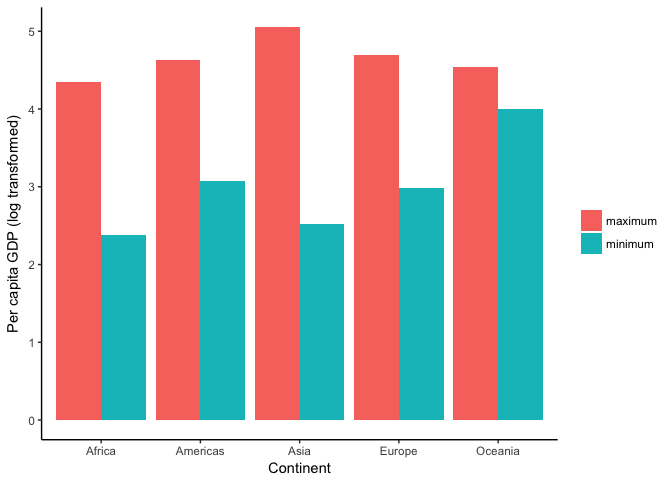
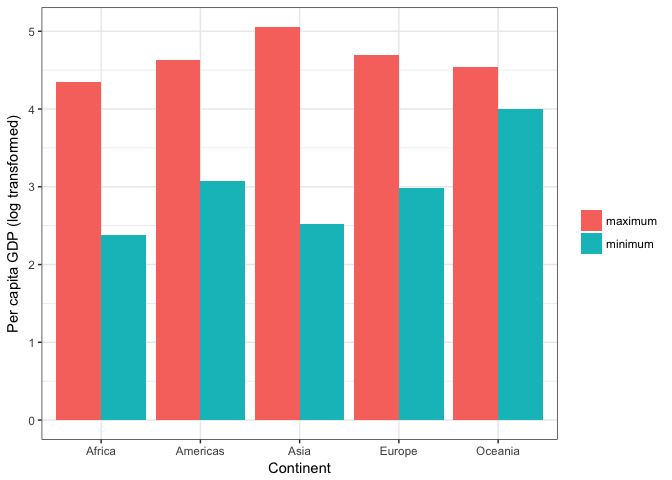
3rd commit

Changed region(s): [[0.0625, 0.9062, 0.8125, 0.9375]]

diff --git a/hw03/Gapminder_exploration_cont.md b/hw03/Gapminder_exploration_cont.md
@@ -1,4 +1,4 @@
-Gapminder\_exploration\_cont
+Gapminder Exploration Continued
 ================
 
 Load the data
@@ -52,7 +52,7 @@ knitr::kable(mmGDP, digits=0, col.names=c("Continent","Maximum per capita GDP","
 | Europe    |                   49357|                     974|
 | Asia      |                  113523|                     331|
 
-Africa has the lowest maximum and minimum per capita GDP. Asia has the highest per capita GDP, but it also the greatest range in GDP values, which indicates a large disparity in GDP between countries. I'll examine the range in per capita GDP within continents visually:
+Africa has the lowest maximum and minimum per capita GDP. Asia has the highest maximum per capita GDP, but it also the greatest range in GDP values, which indicates a large disparity in GDP between countries. I'll examine the range in per capita GDP within continents visually:
 
 ``` r
 mmGDP.plot <- melt(mmGDP, id="continent") # reshape the data in order to plot min and max within continents on the same plot
@@ -61,13 +61,124 @@ ggplot(mmGDP.plot, aes(x=continent, y=log10(value), fill=variable)) +
             geom_bar(position="dodge", stat="identity") + 
             ylab("Per capita GDP (log transformed)") + xlab("Continent") +
             scale_fill_discrete(name="", labels=c("maximum","minimum"))+
-            theme_classic()
+            theme_bw()
 ```
 
 ![](Gapminder_exploration_cont_files/figure-markdown_github-ascii_identifiers/unnamed-chunk-3-1.png)
 
-The ggplot confirms that Asia has the greatest range in per capita GDP. The range of GDP in Oceania is much smaller than in the other continents.
+I log transformed per capita GDP to improve visualization; otherwise the scale would be to large to see differences in minimum GDP. The ggplot confirms that Asia has the greatest range in per capita GDP. The range of GDP in Oceania is much smaller than in the other continents, and Oceania has by far the highest minimum per capita GDP. This is probably because there are much fewer countries in Oceania.
 
 **Comments on the process**
 
 I had trouble finding how to rename the columns in the kable table, I used code from Kozp's [Homework 2](https://github.com/Kozp/STAT545-hw-Kozik-Pavel/blob/Side-Branch/hw02/hw2.md) to help. For the ggplot, I intitially tried to create two bars for minimum and maximum using variations of 'position=dodge'. I couldn't get that to work, but noticed that the 'fill' function produced the plot I wanted as shown [here](http://ggplot2.tidyverse.org/reference/position_dodge.html). I learned how to use the reshape function from [this](http://www.statmethods.net/management/reshape.html) QuickR page.
+
+Life expectancy over time
+-------------------------
+
+This time I will start with visualizing the trends in life expectancy over time for all countries within each continent.
+
+``` r
+ggplot(gapminder, aes(x=year, y=lifeExp)) + 
+          geom_point() + 
+            facet_grid(. ~continent) + geom_smooth(method="loess") +
+              ylab("Life Expectancy") + xlab("Year") + scale_x_continuous(breaks=seq(1950,2010,15)) +
+               theme_bw()
+```
+
+![](Gapminder_exploration_cont_files/figure-markdown_github-ascii_identifiers/unnamed-chunk-4-1.png)
+
+Life expectancy has increased dramatically in all continents, but it looks like the increase has been the fastest in Asia. Although this plot is ideal for examaning the trend, it's a bit difficult to see the actual values for life expectancy. I'll create a table to see how the 10 year average life expectancy within continents has changed over time.
+
+``` r
+avg.LE <- gapminder %>% 
+            mutate(year.bin= cut(year, breaks=seq(1950,2010,10), 
+                  labels=c("1950-1959","1960-1969","1970-1979","1980-1989","1990-1999","2000-2010"))) %>%
+               group_by(continent, year.bin) %>%
+                 summarise(avg.le= mean(lifeExp)) 
+
+knitr::kable(avg.LE, digits=1, col.names=c("Continent","Year Range","Mean Life Expectancy"))
+```
+
+| Continent | Year Range |  Mean Life Expectancy|
+|:----------|:-----------|---------------------:|
+| Africa    | 1950-1959  |                  40.2|
+| Africa    | 1960-1969  |                  44.3|
+| Africa    | 1970-1979  |                  48.5|
+| Africa    | 1980-1989  |                  52.5|
+| Africa    | 1990-1999  |                  53.6|
+| Africa    | 2000-2010  |                  54.1|
+| Americas  | 1950-1959  |                  54.6|
+| Americas  | 1960-1969  |                  59.4|
+| Americas  | 1970-1979  |                  63.4|
+| Americas  | 1980-1989  |                  67.2|
+| Americas  | 1990-1999  |                  70.4|
+| Americas  | 2000-2010  |                  73.0|
+| Asia      | 1950-1959  |                  47.8|
+| Asia      | 1960-1969  |                  53.1|
+| Asia      | 1970-1979  |                  58.5|
+| Asia      | 1980-1989  |                  63.7|
+| Asia      | 1990-1999  |                  67.3|
+| Asia      | 2000-2010  |                  70.0|
+| Europe    | 1950-1959  |                  65.6|
+| Europe    | 1960-1969  |                  69.1|
+| Europe    | 1970-1979  |                  71.4|
+| Europe    | 1980-1989  |                  73.2|
+| Europe    | 1990-1999  |                  75.0|
+| Europe    | 2000-2010  |                  77.2|
+| Oceania   | 1950-1959  |                  69.8|
+| Oceania   | 1960-1969  |                  71.2|
+| Oceania   | 1970-1979  |                  72.4|
+| Oceania   | 1980-1989  |                  74.8|
+| Oceania   | 1990-1999  |                  77.6|
+| Oceania   | 2000-2010  |                  80.2|
+
+I can now see that average life expectancy is lowest in Africa and highest in Oceania. The average life expectancy is very similar in Oceania and Europe. In contrast, Asia had an average life expactancy similar to Africa between 1950 and 1959, which increased to near European levels by 2000-2010. However, the improvements on life expectancy in the Americas were of a similar magnitude.
+
+**Comments on the process**
+
+This question went much more smoothly for me, primarily because I had used a facet\_grid before. Making the table also went smoothly, although I had never used the cut function before, I really liked it. I got the code from [this](https://stackoverflow.com/questions/23163567/r-dplyr-categorize-numeric-variable-with-mutate) stackoverflow post. Prior to this class I would have used an ifelse() statement to create a binning index, but this is cleaner.
+
+### Life expectancy vs. per capita GDP in Asia
+
+Given the dramatic increase in life expectancy in Asia, I want to explore the relationship between life expectancy and per capita GDP to see if increases in the wealth of countries in Asia is correlated with the increase in longevity. I will start by tabulating the mean life expectancy and per capita GDP over time and accross all countries in Asia:
+
+``` r
+le.gdp <- gapminder %>% 
+            filter(continent=="Asia") %>%
+              group_by(year) %>%
+                summarise(m.LE=mean(lifeExp), m.GDP=mean(gdpPercap))
+
+knitr::kable(le.gdp, digits=1, col.names=c("Year","Mean Life Expectancy","Mean Per Capita GDP"))
+```
+
+|  Year|  Mean Life Expectancy|  Mean Per Capita GDP|
+|-----:|---------------------:|--------------------:|
+|  1952|                  46.3|               5195.5|
+|  1957|                  49.3|               5787.7|
+|  1962|                  51.6|               5729.4|
+|  1967|                  54.7|               5971.2|
+|  1972|                  57.3|               8187.5|
+|  1977|                  59.6|               7791.3|
+|  1982|                  62.6|               7434.1|
+|  1987|                  64.9|               7608.2|
+|  1992|                  66.5|               8639.7|
+|  1997|                  68.0|               9834.1|
+|  2002|                  69.2|              10174.1|
+|  2007|                  70.7|              12473.0|
+
+Life expectancy has increased concomitant with per capita GDP as expected. It is a bit difficult to see whether the change over time is linear or exponential. That would be more easily seen in a ggplot:
+
+``` r
+ggplot(le.gdp, aes(x=m.GDP, y=m.LE)) + 
+        geom_point() + geom_text(aes(label=year),hjust=1.1, vjust=0) + 
+            stat_smooth(method="loess") + 
+                ylab("Life Expectancy") + xlab("Per Capita GDP") + theme_bw()
+```
+
+![](Gapminder_exploration_cont_files/figure-markdown_github-ascii_identifiers/unnamed-chunk-7-1.png)
+
+Now I can see that on average in Asia, life expectancy has increased with GDP relatively linearly. Both of these variables have also increased consistently over time. There is some indication that the trend is beginning to plateau, as both life expectancy and GDP were increasing fastest in between 1950 and 1970.
+
+**Comments on the process**
+
+This question was relatively simple to address, so no big problems. I found how to add year labels above the point from [this](https://stackoverflow.com/questions/15624656/label-points-in-geom-point) stackoverflow post. I could have improved my plotting of the trend line by specifying a linear model in the stat\_smooth function and including a quadratic year term in the model to allow for non linearity.
